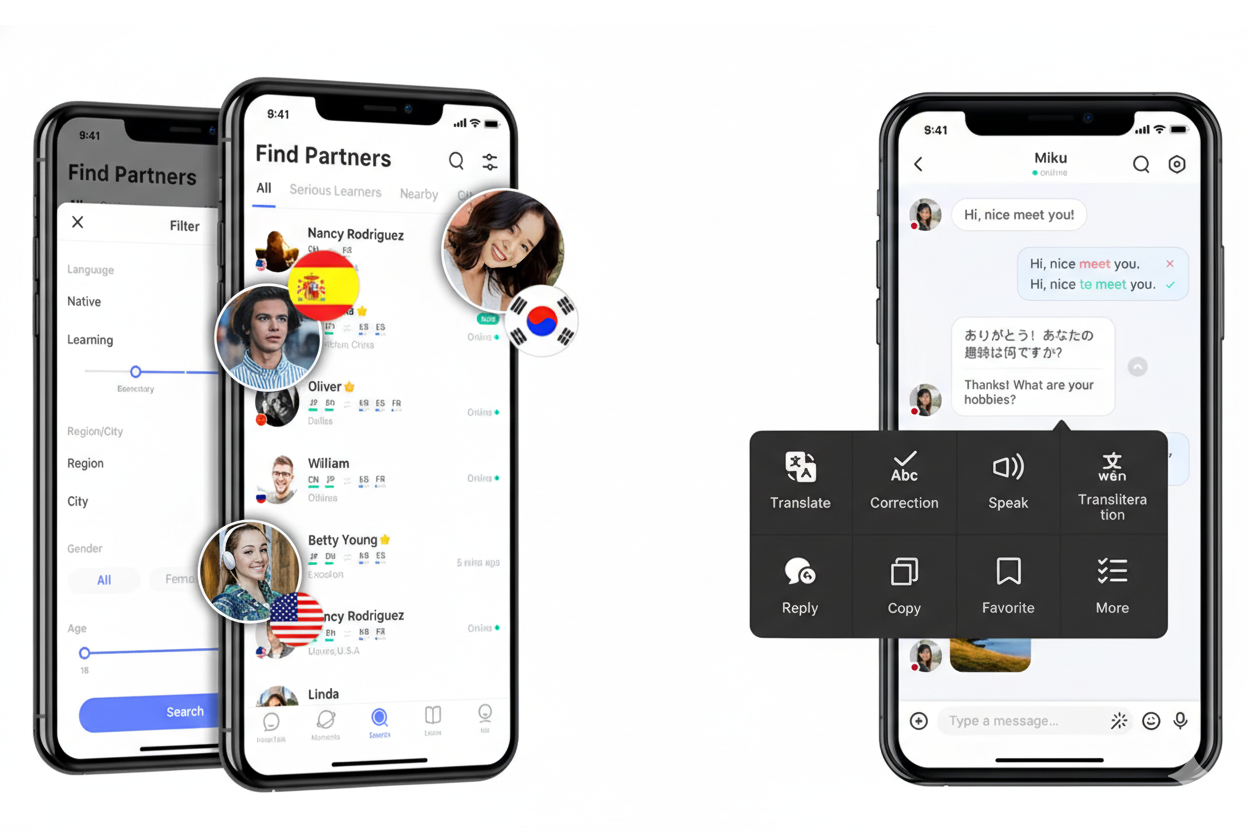
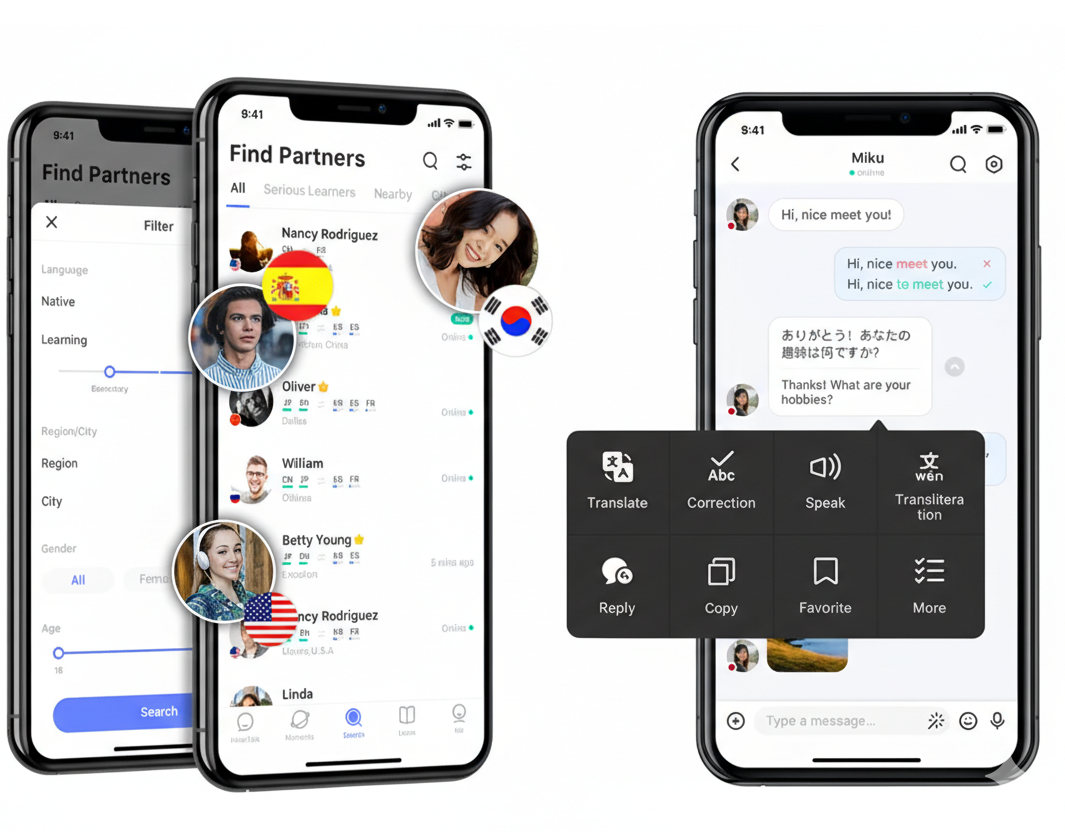
Refine Talk to the World section responsiveness and update image

diff --git a/mingle-landing/app/page.tsx b/mingle-landing/app/page.tsx
@@ -430,7 +430,7 @@ export default function HomePage() {
       </nav>
 
       {/* Hero Section */}
-      <section className="min-h-screen flex items-center justify-center pt-10 pb-20 px-6 relative overflow-hidden bg-gradient-to-br from-white via-white to-gray-100">
+      <section className="min-h-screen flex items-center justify-center pt-24 md:pt-10 pb-20 px-6 relative overflow-hidden bg-gradient-to-br from-white via-white to-gray-100">
         <div className="absolute top-0 left-1/2 -translate-x-1/2 w-[800px] h-[800px] bg-[radial-gradient(circle,rgba(245,158,11,0.08)_0%,transparent_70%)] pointer-events-none" />
         <div className="max-w-6xl mx-auto grid lg:grid-cols-2 gap-12 items-center">
           <motion.div
@@ -648,7 +648,7 @@ export default function HomePage() {
           <img
             src="/talk-to-the-world.png"
             alt="Talk to the World"
-            className="w-2/3 h-auto"
+            className="w-full md:w-2/3 h-auto"
           />
         </motion.div>
       </section>
